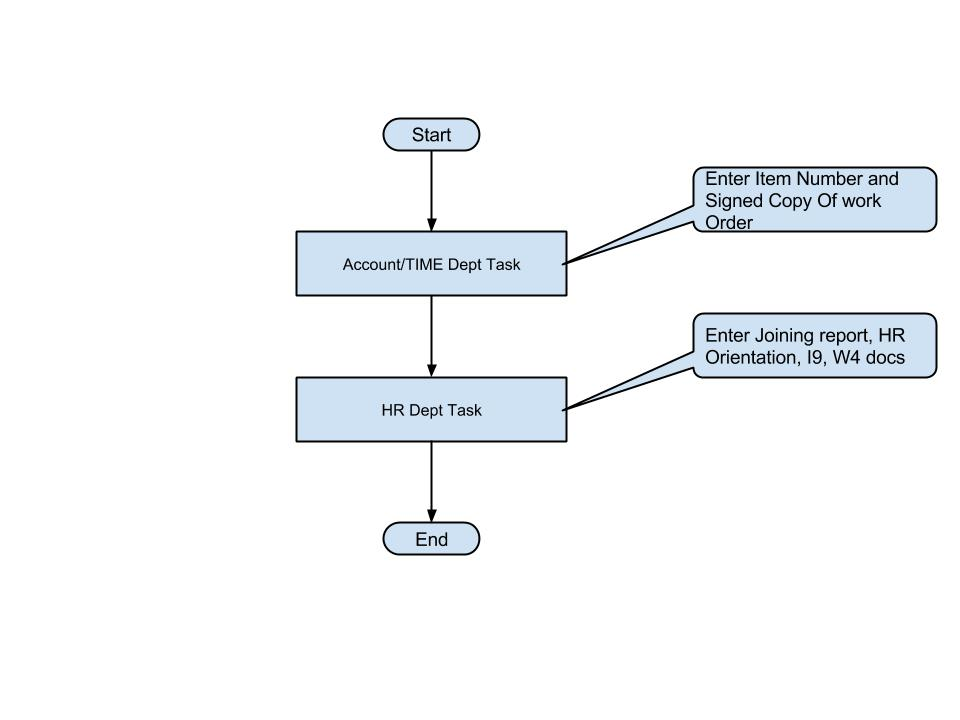
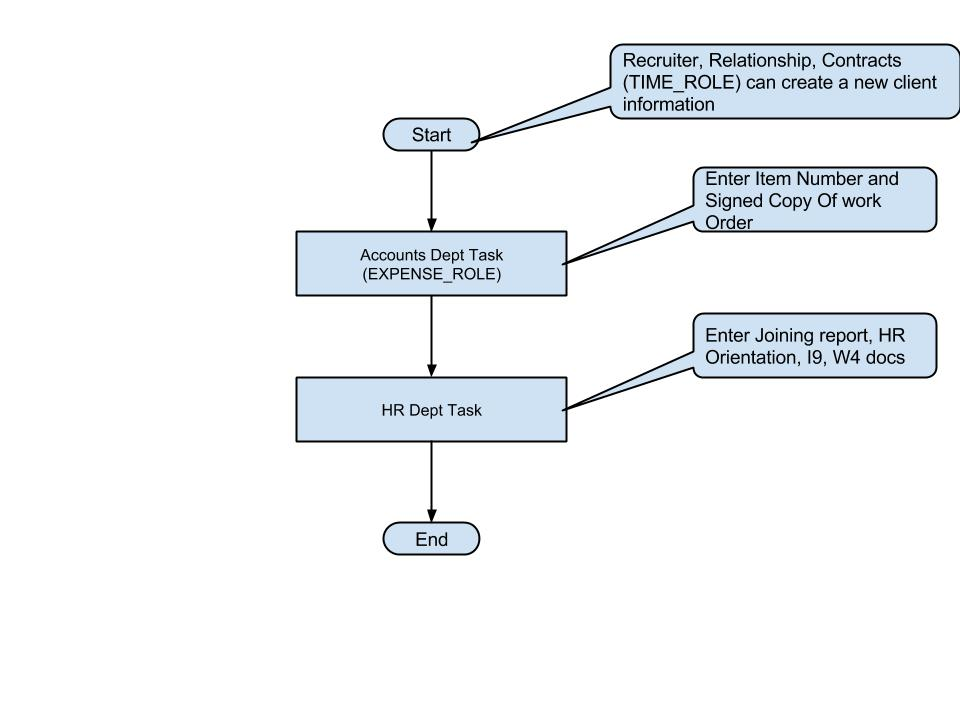
new client info doc
git-svn-id: http://tools.sstech.us/svn/office/trunk@3641 04aae24c-3eb2-d842-8c26-b4285eb26770

Changed region(s): [[0.5312, 0.0611, 1.0, 0.1833], [0.375, 0.3361, 0.5312, 0.3972], [0.5, 0.1833, 0.5312, 0.2139]]

diff --git a/office-master/office-doc/src/site/markdown/office/bpm/new-client-info-process.md b/office-master/office-doc/src/site/markdown/office/bpm/new-client-info-process.md
@@ -1,0 +1,38 @@
+Creating New Client Information Process
+=========
+
+![alt text](../../images/bpm/new-client-info/new_client_information.png "New Client Info")
+
+### Step 1 Create New Client Information
+ Any person from the HR, Relationship,Contracts(RIME_ROLE), Recruiter Depts can create a new client information when consultant joins a new project or change project.
+ - Goto --> MyOffice tab--> search for employee
+ ![alt text](../../images/bpm/new-client-info/create-client-info-link.png "New Client Info")
+ - populate all the applicable fields
+ - you also have a options to enter the previous project end date.
+ - subcontractor
+ - 1099
+ - ![alt text](../../images/bpm/new-client-info/create-client-info-fields.png "New Client Info")
+
+
+### Step 2 Accounts Dept Task
+ Once the Client infofrmation is created. A Accounts(TIME) dept task will be created.
+ - ![alt text](../../images/bpm/new-client-info/new-client-info-acct-task.png "New Client Info")
+ - populate the below details and complete the task
+ - ![alt text](../../images/bpm/new-client-info/new-client-info-acct-task-details.png "New Client Info")
+ 
+### Step 3 HR Dept Task
+Once the Accounts dept complets the task. The HR dept will get a task to populate the remaining details,verify and complete the process.
+ - ![alt text](../../images/bpm/new-client-info/new-client-info-hr-task.png "New Client Info")
+
+### view contracts report
+Once the process is completed you can view the entered information in reports
+ - ![alt text](../../images/bpm/new-client-info/new-client-info-reports.png "New Client Info")
+ - ![alt text](../../images/bpm/new-client-info/new-client-info-contract-details.png "New Client Info")
+
+
+ 
+
+
+
+
+
